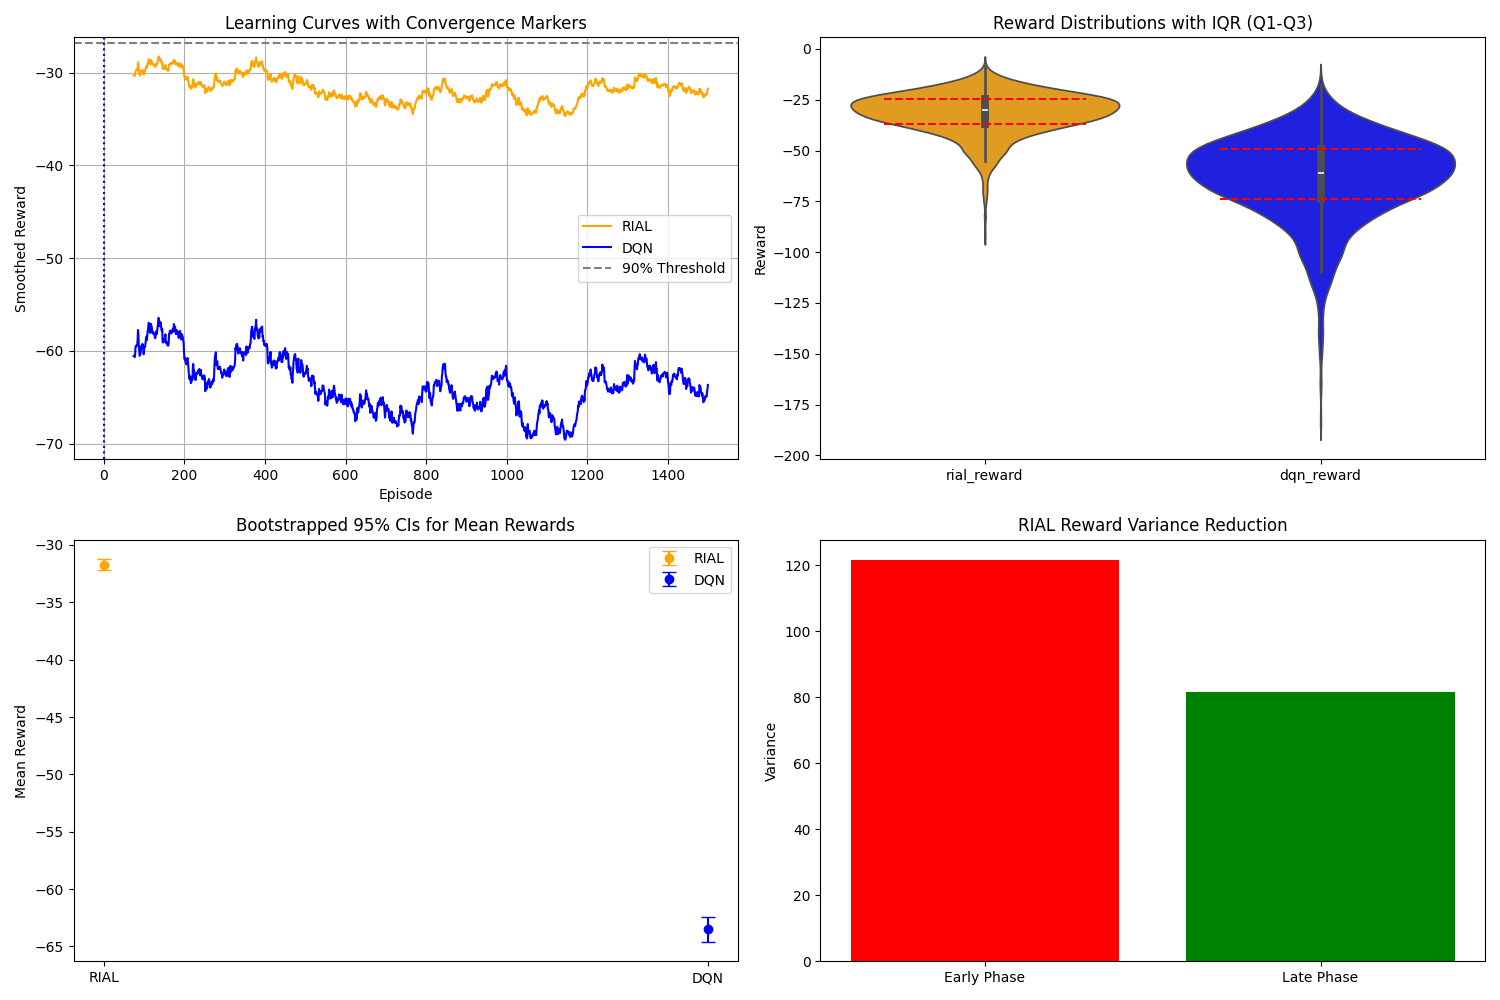
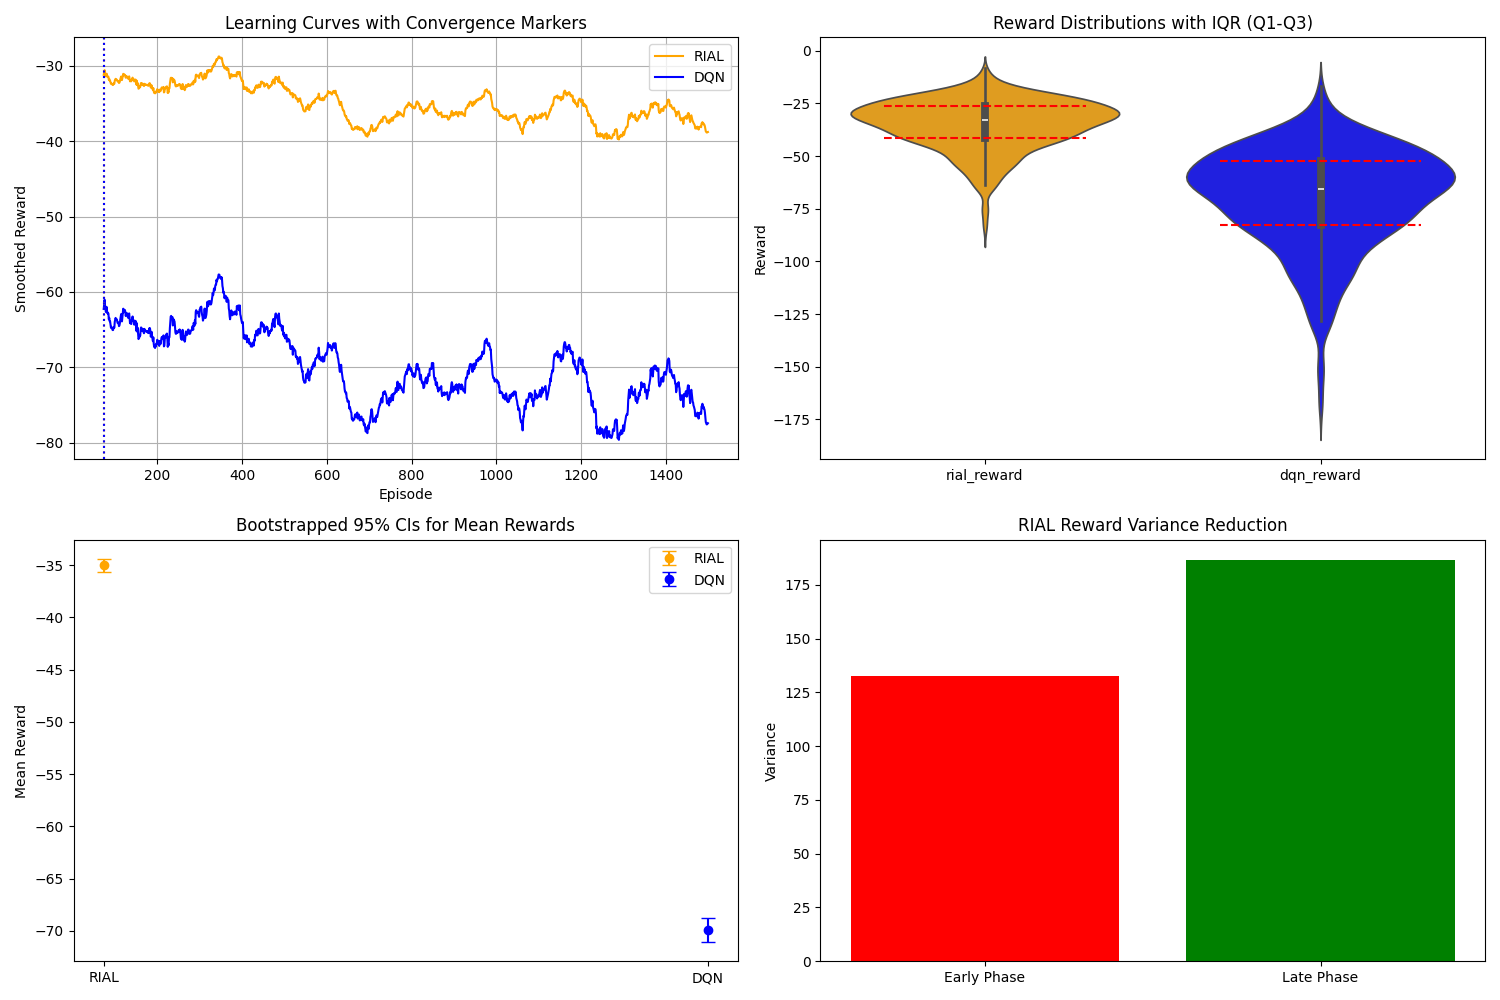
more analysis

diff --git a/compare_results.py b/compare_results.py
@@ -220,7 +220,7 @@ class MARLExperiment:
         t_stat, p_val = stats.ttest_rel(df['rial_reward'], df['dqn_reward'])
         cohens_d = (rial_mean - dqn_mean) / np.std(df['rial_reward'] - df['dqn_reward'], ddof=1)
         
-        print(f"Reward Comparison:")
+        print(f"\n1.Reward Comparison:")
         print(f"  RIAL Mean: {rial_mean:.2f} ± {np.std(df['rial_reward']):.2f}")
         print(f"  DQN Mean: {dqn_mean:.2f} ± {np.std(df['dqn_reward']):.2f}")
         print(f"  t-test: t={t_stat:.2f}, p={p_val:.4f}")
@@ -234,13 +234,13 @@ class MARLExperiment:
             alpha=0.05,
             method='wilson'
         )
-        print(f"\nWin Rates:")
+        print(f"\n2. Win Rates:")
         print(f"  RIAL Wins: {win_counts.get('rial', 0)} ({rial_win_ci[0]*100:.1f}%-{rial_win_ci[1]*100:.1f}%)")
         print(f"  DQN Wins: {win_counts.get('dqn', 0)}")
         print(f"  Draws: {win_counts.get('draw', 0)}")
         
         # 3. Behavioral metrics
-        print(f"\nBehavioral Metrics:")
+        print(f"\n3. Behavioral Metrics:")
         print(f"  Avg. Collisions/Episode: {np.mean(df['collisions']):.2f} ± {np.std(df['collisions']):.2f}")
         print(f"  Avg. Inter-Agent Distance: {np.mean(df['distance']):.2f} ± {np.std(df['distance']):.2f}")
         
@@ -248,11 +248,13 @@ class MARLExperiment:
             attn_entropy = self.results['rial']['attention_entropy']
             print(f"  Attention Entropy: {np.mean(attn_entropy):.2f} ± {np.std(attn_entropy):.2f}")
         
+        print(f"  Attention-Reward Correlation: {np.corrcoef(attn_entropy, df['rial_reward'])[0,1]:.2f}")
+
         # 4. Bootstrapped confidence intervals
         rial_ci = self.bootstrap_ci(df['rial_reward']) 
         dqn_ci = self.bootstrap_ci(df['dqn_reward'])    
         
-        print(f"\n2. Bootstrapped 95% Confidence Intervals:")
+        print(f"\n4. Bootstrapped 95% Confidence Intervals:")
         print(f"  RIAL: [{rial_ci[0]:.2f}, {rial_ci[1]:.2f}]")
         print(f"  DQN: [{dqn_ci[0]:.2f}, {dqn_ci[1]:.2f}]")
 
@@ -260,35 +262,53 @@ class MARLExperiment:
         rial_q1, rial_q3 = np.percentile(df['rial_reward'], [25, 75])
         dqn_q1, dqn_q3 = np.percentile(df['dqn_reward'], [25, 75])
         
-        print(f"\n3. Interquartile Ranges (IQR):")
+        print(f"\n5. Interquartile Ranges (IQR):")
         print(f"  RIAL: {rial_q3 - rial_q1:.2f} (Q1={rial_q1:.2f}, Q3={rial_q3:.2f})")
         print(f"  DQN: {dqn_q3 - dqn_q1:.2f} (Q1={dqn_q1:.2f}, Q3={dqn_q3:.2f})")
 
         # 6. Convergence Analysis
-        window = max(1, len(df) // 20)  # Smoothing window (5% of episodes)
+        window = max(1, len(df) // 20)  # 5% smoothing window
         rial_smoothed = df['rial_reward'].rolling(window).mean()
         dqn_smoothed = df['dqn_reward'].rolling(window).mean()
-        
-        # Variance reduction
-        early_phase = df['rial_reward'][:len(df)//5]
-        late_phase = df['rial_reward'][-len(df)//5:]
-        var_reduction = 100*(np.var(early_phase) - np.var(late_phase))/np.var(early_phase)
-        
-        # Convergence episodes (90% threshold)
-        threshold = 0.95 * max(rial_smoothed.max(), dqn_smoothed.max())
-        rial_conv = np.argmax(rial_smoothed >= threshold)
-        dqn_conv = np.argmax(dqn_smoothed >= threshold)
-        
-        print(f"\n4. Convergence Analysis:")
-        print(f"  RIAL Variance Reduction: {var_reduction:.1f}%")
-        print(f"  RIAL Converged at Episode: {rial_conv}/{len(df)} (95% threshold)")
-        print(f"  DQN Converged at Episode: {dqn_conv}/{len(df)} (95% threshold)")
+        df['rial_smoothed'] = rial_smoothed
+        df['dqn_smoothed'] = dqn_smoothed
 
+        # Variance reduction (absolute values)
+        early_var = np.var(df['rial_reward'][:len(df)//5])
+        late_var = np.var(df['rial_reward'][-len(df)//5:])
+
+        # Individual convergence thresholds
+        rial_threshold = 0.9 * np.median(df['rial_smoothed'][-300:])  # Last 20% episodes
+        dqn_threshold = 0.9 * np.median(df['dqn_smoothed'][-300:])
+
+        # Find first episode where smoothed reward crosses threshold
+        rial_conv = next((i for i, val in enumerate(df['rial_smoothed']) if val >= rial_threshold), len(df))
+        dqn_conv = next((i for i, val in enumerate(df['dqn_smoothed']) if val >= dqn_threshold), len(df))
+        
+        print(f"\n6. Convergence Analysis:")
+        if early_var > late_var:
+            change = 100 * (early_var - late_var)/early_var
+            print(f"  Variance reduced by {change:.1f}%")
+        else:
+            change = 100 * (late_var - early_var)/early_var
+            print(f"  Variance increased by {change:.1f}%")
+        print(f"  RIAL Converged at Episode: {rial_conv}/{len(df)}")
+        print(f"  DQN Converged at Episode: {dqn_conv}/{len(df)}")
+
+        plt.figure(figsize=(10, 5))
+        plt.plot(df['rial_smoothed'], label='RIAL')
+        plt.plot(df['dqn_smoothed'], label='DQN')
+        plt.axhline(rial_threshold, color='orange', linestyle='--', label='RIAL Threshold')
+        plt.axhline(dqn_threshold, color='blue', linestyle='--', label='DQN Threshold')
+        plt.xlabel('Episode')
+        plt.ylabel('Smoothed Reward')
+        plt.legend()
+        plt.show()
 
         # Generate visualizations
-        self._generate_plots(df, rial_smoothed, dqn_smoothed, threshold)
+        self._generate_plots(df, rial_smoothed, dqn_smoothed, rial_threshold, dqn_threshold)
     
-    def _generate_plots(self, df, rial_smoothed, dqn_smoothed, threshold):
+    def _generate_plots(self, df, rial_smoothed, dqn_smoothed, rial_threshold, dqn_threshold):
         os.makedirs("enhanced_plots", exist_ok=True)
         plt.figure(figsize=(15, 10))
 
@@ -296,9 +316,9 @@ class MARLExperiment:
         plt.subplot(2, 2, 1)
         plt.plot(rial_smoothed, label='RIAL', color='orange')
         plt.plot(dqn_smoothed, label='DQN', color='blue')
-        plt.axhline(threshold, color='gray', linestyle='--', label='90% Threshold')
-        plt.axvline(np.argmax(rial_smoothed >= threshold), color='orange', linestyle=':')
-        plt.axvline(np.argmax(dqn_smoothed >= threshold), color='blue', linestyle=':')
+        #plt.axhline(rial_threshold, color='gray', linestyle='--', label='RIAL Threshold')
+        plt.axvline(np.argmax(rial_smoothed >= rial_threshold), color='orange', linestyle=':')
+        plt.axvline(np.argmax(dqn_smoothed >= dqn_threshold), color='blue', linestyle=':')
         plt.xlabel('Episode')
         plt.ylabel('Smoothed Reward')
         plt.title('Learning Curves with Convergence Markers')
